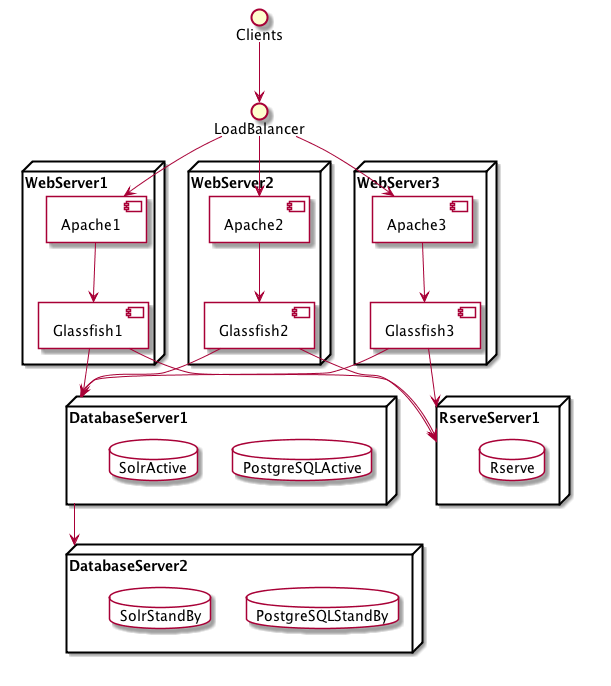
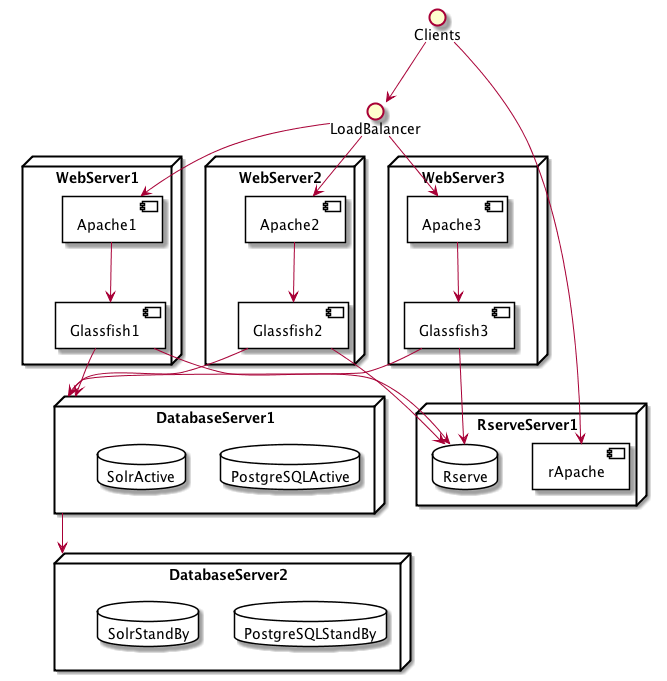
add rApache to Architecture and Components diagram #2212
Also document how to use PlantUML.

diff --git a/doc/sphinx-guides/source/developers/tools.rst b/doc/sphinx-guides/source/developers/tools.rst
@@ -17,6 +17,11 @@ Maven
 
 With Maven installed you can run `mvn package` and `mvn test` from the command line. It can be downloaded from https://maven.apache.org
 
+PlantUML
+++++++++
+
+PlantUML is used to create diagrams in the guides and other places. Download it from http://plantuml.com and check out an example script at https://github.com/IQSS/dataverse/blob/v4.6.1/doc/Architecture/components.sh . Note that for this script to work, you'll need the ``dot`` program, which can be installed on Mac with ``brew install graphviz``.
+
 Eclipse Memory Analyzer Tool (MAT)
 ++++++++++++++++++++++++++++++++++
 
